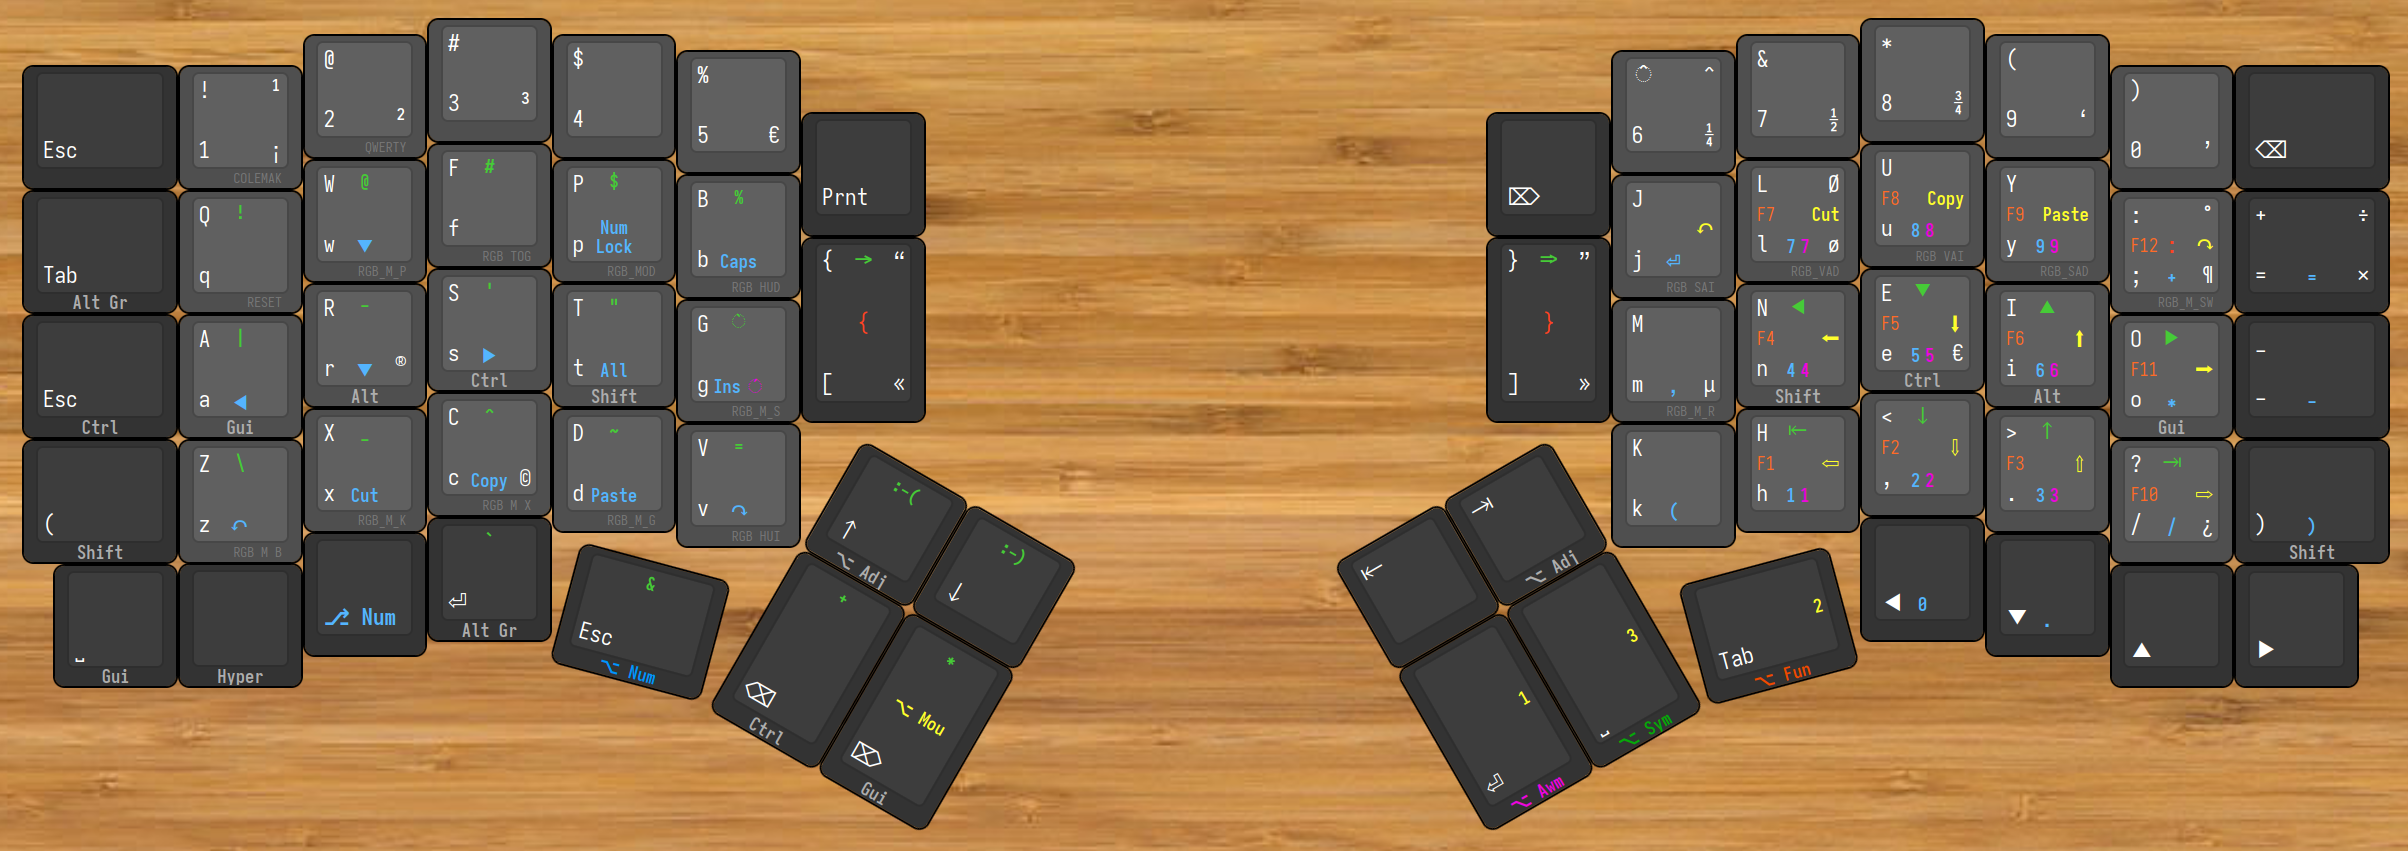
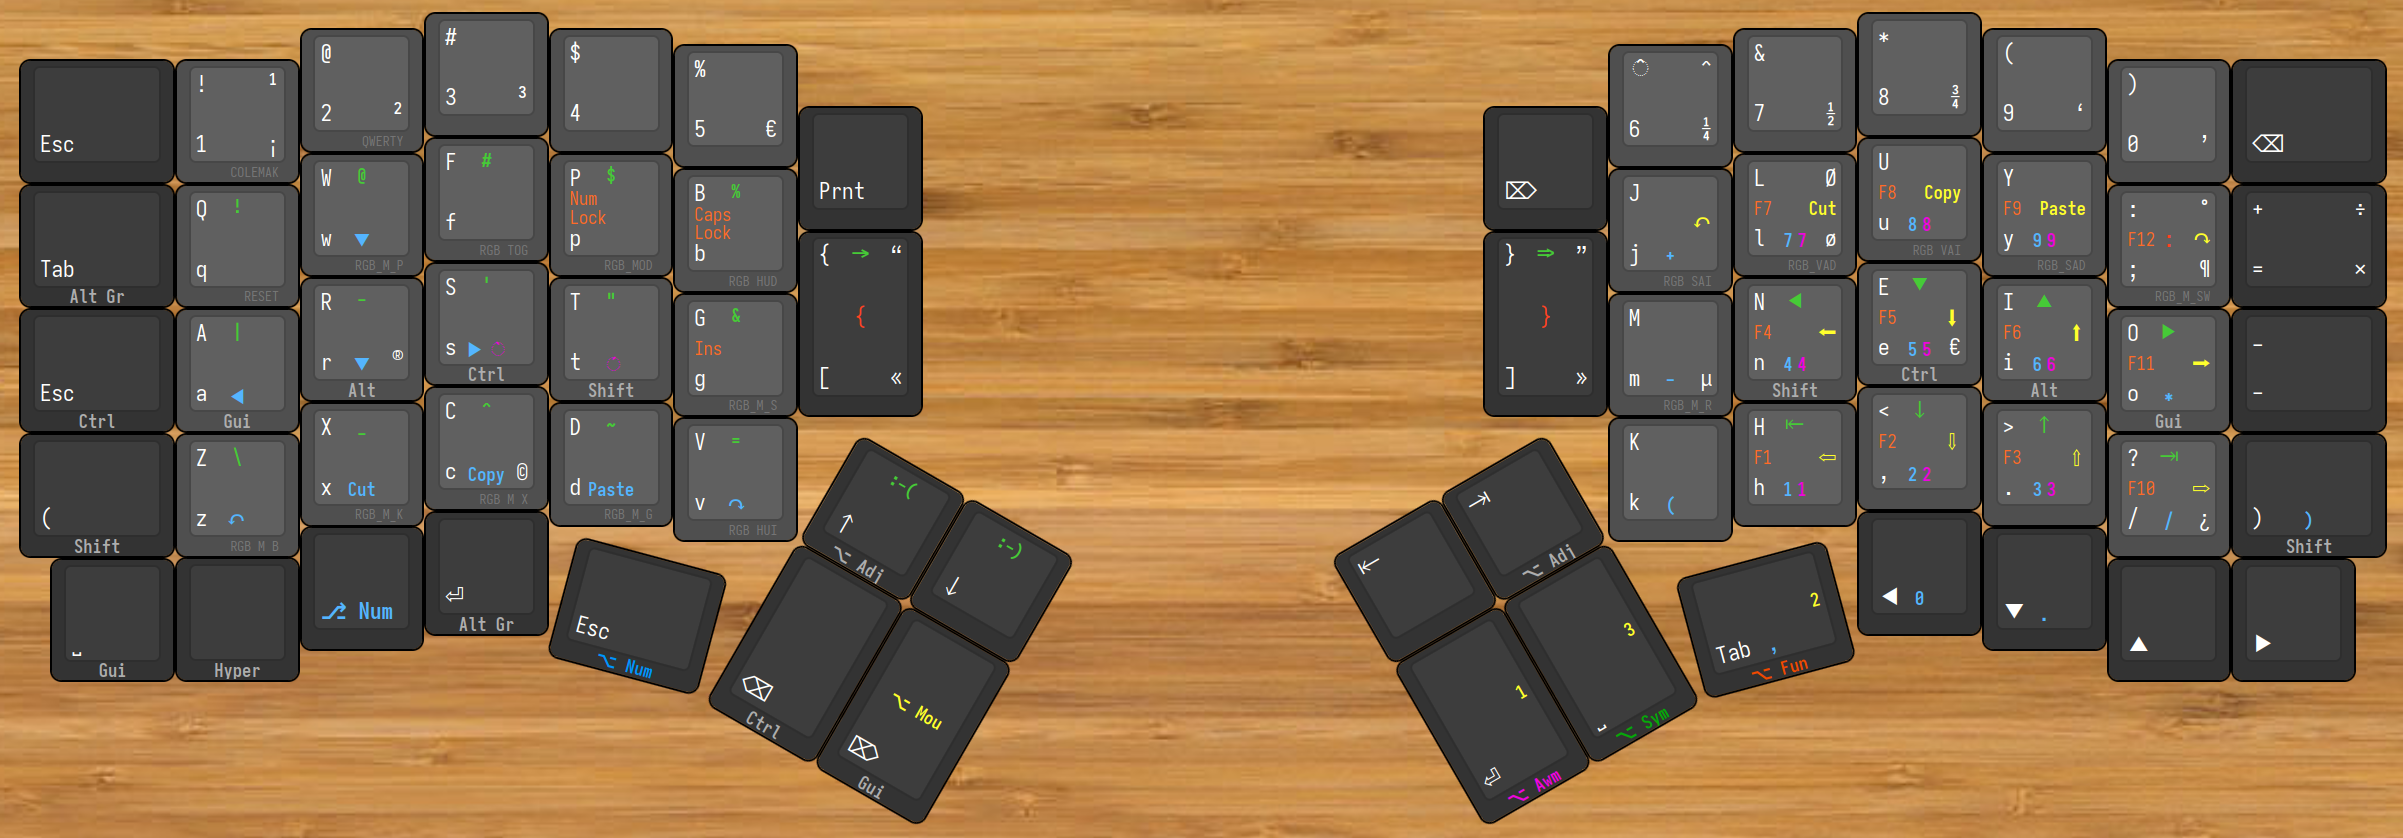
improved split keys

diff --git a/keymap.c b/keymap.c
@@ -204,11 +204,11 @@ const uint16_t PROGMEM keymaps[][MATRIX_ROWS][MATRIX_COLS] = {
     //├────────┼────────┼────────┼────────┼────────┼────────┼────────┐                         ┌────────┼────────┼────────┼────────┼────────┼────────┼────────┤
        _______ ,KC_EXLM ,KC_AT   ,KC_HASH ,KC_DLR  ,KC_PERC ,_______ ,                          _______ ,_______ ,_______ ,_______ ,_______ ,_______ ,_______ ,
     //├────────┼────────┼────────┼────────┼────────┼────────┼────────┤                         ├────────┼────────┼────────┼────────┼────────┼────────┼────────┤
-       _______ ,KC_PIPE ,KC_PMNS ,ASC_SQT ,ASC_DQT ,KC_GRV  ,ASC_SAR ,                          ASC_DAR ,_______ ,KC_LEFT ,KC_DOWN ,KC_UP   ,KC_RGHT ,_______ ,
+       _______ ,KC_PIPE ,KC_PMNS ,ASC_SQT ,ASC_DQT ,KC_AMPR ,ASC_SAR ,                          ASC_DAR ,_______ ,KC_LEFT ,KC_DOWN ,KC_UP   ,KC_RGHT ,_______ ,
     //├────────┼────────┼────────┼────────┼────────┼────────┼────────┼────────┐       ┌────────┼────────┼────────┼────────┼────────┼────────┼────────┼────────┤
        _______ ,KC_BSLS ,KC_UNDS ,ASC_CIRC,ASC_TILD,KC_EQL  ,ASC_SAD ,ASC_HAP ,        _______ ,_______ ,_______ ,KC_HOME ,KC_PGDN ,KC_PGUP ,KC_END  ,_______ ,
     //├────────┼────────┼────────┼────────┼────┬───┴────┬───┼────────┼────────┤       ├────────┼────────┼───┬────┴───┬────┼────────┼────────┼────────┼────────┤
-       _______ ,_______ ,_______ ,ASC_BKT ,     KC_AMPR ,    KC_PLUS ,KC_ASTR ,        _______ ,_______ ,    _______ ,     _______ ,_______ ,_______ ,_______
+       _______ ,_______ ,_______ ,_______ ,     _______ ,    _______ ,_______ ,        _______ ,_______ ,    _______ ,     _______ ,_______ ,_______ ,_______
     //└────────┴────────┴────────┴────────┘    └────────┘   └────────┴────────┘       └────────┴────────┘   └────────┘    └────────┴────────┴────────┴────────┘
   ),
 
@@ -217,13 +217,13 @@ const uint16_t PROGMEM keymaps[][MATRIX_ROWS][MATRIX_COLS] = {
     //┌────────┬────────┬────────┬────────┬────────┬────────┐                                           ┌────────┬────────┬────────┬────────┬────────┬────────┐
        _______ ,_______ ,_______ ,_______ ,_______ ,_______ ,                                            _______ ,_______ ,_______ ,_______ ,_______ ,_______ ,
     //├────────┼────────┼────────┼────────┼────────┼────────┼────────┐                         ┌────────┼────────┼────────┼────────┼────────┼────────┼────────┤
-       _______ ,_______ ,KC_UP   ,_______ ,KC_NLCK ,KC_CAPS ,_______ ,                          _______ ,KC_PENT ,KC_KP_7 ,KC_KP_8 ,KC_KP_9 ,KC_PPLS ,KC_PEQL ,
+       _______ ,_______ ,KC_UP   ,_______ ,_______ ,_______ ,_______ ,                          _______ ,KC_PPLS ,KC_KP_7 ,KC_KP_8 ,KC_KP_9 ,_______ ,_______ ,
     //├────────┼────────┼────────┼────────┼────────┼────────┼────────┤                         ├────────┼────────┼────────┼────────┼────────┼────────┼────────┤
-       _______ ,KC_LEFT ,KC_DOWN ,KC_RIGHT,U_ALL   ,KC_INS  ,_______ ,                          _______ ,KC_COMM ,KC_KP_4 ,KC_KP_5 ,KC_KP_6 ,KC_PAST ,KC_PMNS ,
+       _______ ,KC_LEFT ,KC_DOWN ,KC_RIGHT,_______ ,_______ ,_______ ,                          _______ ,KC_PMNS ,KC_KP_4 ,KC_KP_5 ,KC_KP_6 ,KC_PAST ,_______ ,
     //├────────┼────────┼────────┼────────┼────────┼────────┼────────┼────────┐       ┌────────┼────────┼────────┼────────┼────────┼────────┼────────┼────────┤
        _______ ,U_UND   ,U_CUT   ,U_CPY   ,U_PST   ,U_RDO   ,_______ ,_______ ,        _______ ,_______ ,S(KC_9) ,KC_KP_1 ,KC_KP_2 ,KC_KP_3 ,KC_PSLS ,S(KC_0) ,
     //├────────┼────────┼────────┼────────┼────┬───┴────┬───┼────────┼────────┤       ├────────┼────────┼───┬────┴───┬────┼────────┼────────┼────────┼────────┤
-       _______ ,_______ ,_______ ,_______ ,     _______ ,    _______ ,_______ ,        KC_PENT ,KC_KP_0 ,    KC_PDOT ,     KC_KP_0 ,KC_PDOT ,XXXXXXX ,XXXXXXX
+       _______ ,_______ ,_______ ,_______ ,     _______ ,    _______ ,_______ ,        _______ ,_______ ,    KC_COMM ,     KC_KP_0 ,KC_DOT  ,XXXXXXX ,XXXXXXX
     //└────────┴────────┴────────┴────────┘    └────────┘   └────────┴────────┘       └────────┴────────┘   └────────┘    └────────┴────────┴────────┴────────┘
   ),
 
@@ -232,11 +232,11 @@ const uint16_t PROGMEM keymaps[][MATRIX_ROWS][MATRIX_COLS] = {
     //┌────────┬────────┬────────┬────────┬────────┬────────┐                                           ┌────────┬────────┬────────┬────────┬────────┬────────┐
        _______ ,_______ ,_______ ,_______ ,_______ ,_______ ,                                            _______ ,_______ ,_______ ,_______ ,_______ ,_______ ,
     //├────────┼────────┼────────┼────────┼────────┼────────┼────────┐                         ┌────────┼────────┼────────┼────────┼────────┼────────┼────────┤
-       _______ ,_______ ,KC_UP   ,_______ ,KC_NLCK ,KC_CAPS ,_______ ,                          _______ ,XXXXXXX ,KC_F7   ,KC_F8   ,KC_F9   ,KC_F12  ,_______ ,
+       _______ ,_______ ,_______ ,_______ ,KC_NLCK ,KC_CAPS ,_______ ,                          _______ ,_______ ,KC_F7   ,KC_F8   ,KC_F9   ,KC_F12  ,_______ ,
     //├────────┼────────┼────────┼────────┼────────┼────────┼────────┤                         ├────────┼────────┼────────┼────────┼────────┼────────┼────────┤
-       _______ ,KC_LEFT ,KC_DOWN ,KC_RIGHT,U_ALL   ,KC_INS  ,_______ ,                          _______ ,XXXXXXX ,KC_F4   ,KC_F5   ,KC_F6   ,KC_F11  ,_______ ,
+       _______ ,_______ ,_______ ,_______ ,_______ ,KC_INS  ,_______ ,                          _______ ,_______ ,KC_F4   ,KC_F5   ,KC_F6   ,KC_F11  ,_______ ,
     //├────────┼────────┼────────┼────────┼────────┼────────┼────────┼────────┐       ┌────────┼────────┼────────┼────────┼────────┼────────┼────────┼────────┤
-       _______ ,U_UND   ,U_CUT   ,U_CPY   ,U_PST   ,U_RDO   ,_______ ,_______ ,        _______ ,_______ ,XXXXXXX ,KC_F1   ,KC_F2   ,KC_F3   ,KC_F10  ,_______ ,
+       _______ ,_______ ,_______ ,_______ ,_______ ,_______ ,_______ ,_______ ,        _______ ,_______ ,_______ ,KC_F1   ,KC_F2   ,KC_F3   ,KC_F10  ,_______ ,
     //├────────┼────────┼────────┼────────┼────┬───┴────┬───┼────────┼────────┤       ├────────┼────────┼───┬────┴───┬────┼────────┼────────┼────────┼────────┤
        _______ ,_______ ,_______ ,_______ ,     _______ ,    _______ ,_______ ,        _______ ,_______ ,    _______ ,     _______ ,_______ ,_______ ,_______
     //└────────┴────────┴────────┴────────┘    └────────┘   └────────┴────────┘       └────────┴────────┘   └────────┘    └────────┴────────┴────────┴────────┘
@@ -249,7 +249,7 @@ const uint16_t PROGMEM keymaps[][MATRIX_ROWS][MATRIX_COLS] = {
     //├────────┼────────┼────────┼────────┼────────┼────────┼────────┐                         ┌────────┼────────┼────────┼────────┼────────┼────────┼────────┤
        _______ ,_______ ,_______ ,_______ ,_______ ,_______ ,_______ ,                          _______ ,_______ ,KC_AW7  ,KC_AW8  ,KC_AW9  ,_______ ,_______ ,
     //├────────┼────────┼────────┼────────┼────────┼────────┼────────┤                         ├────────┼────────┼────────┼────────┼────────┼────────┼────────┤
-       _______ ,_______ ,_______ ,_______ ,_______ ,KC_QUOT ,_______ ,                          _______ ,_______ ,KC_AW4  ,KC_AW5  ,KC_AW6  ,_______ ,_______ ,
+       _______ ,_______ ,_______ ,KC_GRV  ,KC_QUOT ,_______ ,_______ ,                          _______ ,_______ ,KC_AW4  ,KC_AW5  ,KC_AW6  ,_______ ,_______ ,
     //├────────┼────────┼────────┼────────┼────────┼────────┼────────┼────────┐       ┌────────┼────────┼────────┼────────┼────────┼────────┼────────┼────────┤
        _______ ,_______ ,_______ ,_______ ,_______ ,_______ ,_______ ,_______ ,        _______ ,_______ ,_______ ,KC_AW1  ,KC_AW2  ,KC_AW3  ,_______ ,_______ ,
     //├────────┼────────┼────────┼────────┼────┬───┴────┬───┼────────┼────────┤       ├────────┼────────┼───┬────┴───┬────┼────────┼────────┼────────┼────────┤
